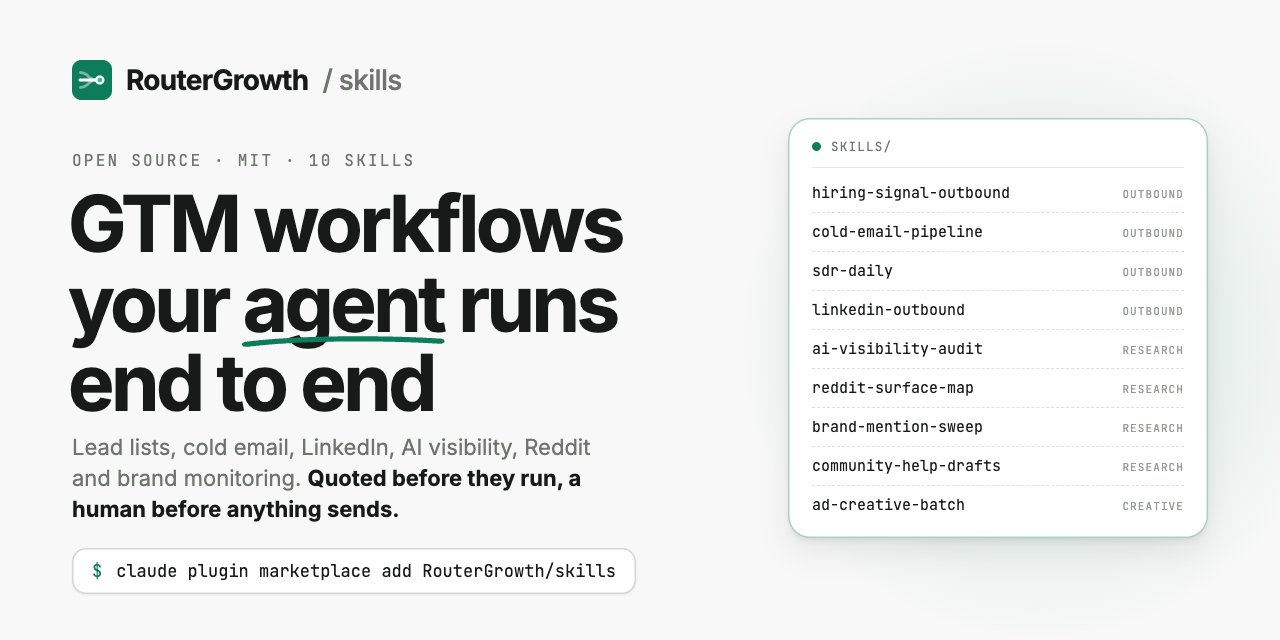
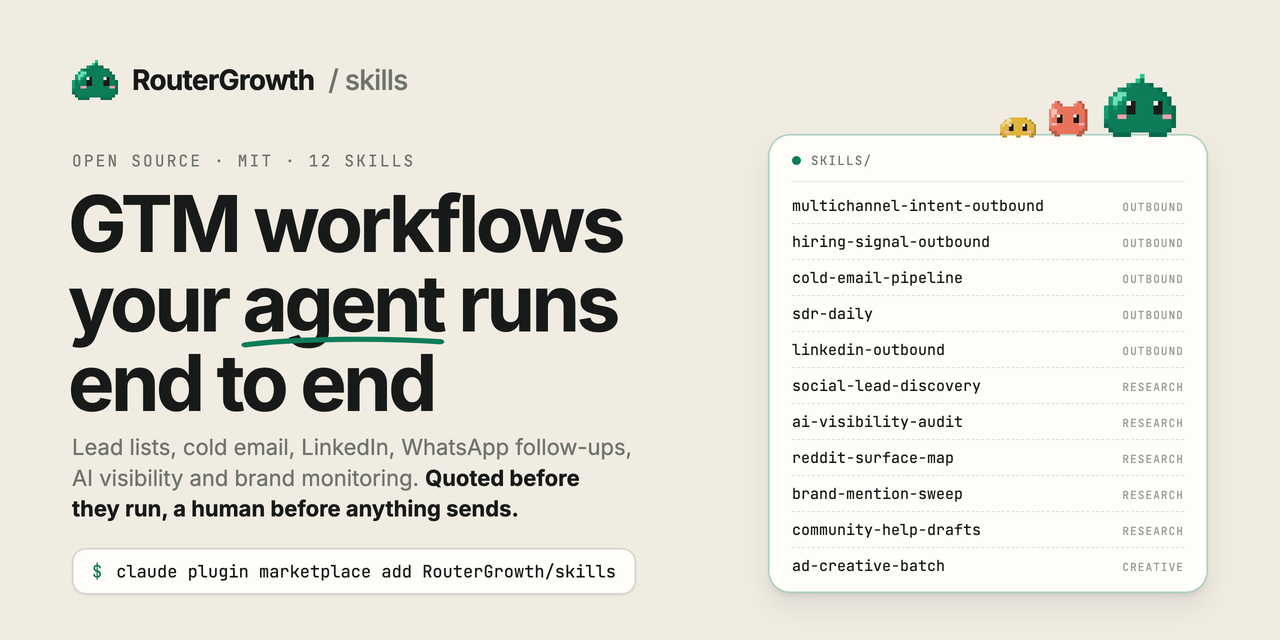
Social preview card: Jell, twelve skills
Redo the card with Jell as the RouterGrowth mark and standing on the
skills list, the storybook paper background, and the current catalog:
twelve skills, now listing multichannel-intent-outbound and
social-lead-discovery.

diff --git a/.github/social-preview.html b/.github/social-preview.html
@@ -2,9 +2,9 @@
 <link rel="stylesheet" href="https://fonts.googleapis.com/css2?family=Inter:wght@400;500;700&family=JetBrains+Mono:wght@400;500&display=swap">
 <style>
 *{box-sizing:border-box}html,body{margin:0;width:1280px;height:640px;overflow:hidden}
-body{background:#f7f8f7;font-family:Inter,system-ui,sans-serif;color:#171a18;position:relative}
+body{background:#f1ece2;font-family:Inter,system-ui,sans-serif;color:#171a18;position:relative}
 .brand{position:absolute;left:72px;top:60px;display:flex;align-items:center;gap:14px;font-weight:700;font-size:28px;letter-spacing:-.025em}
-.brand .m{width:40px;height:40px}.brand span.r{color:#6f746f;font-weight:500}
+.brand .m{width:46px;height:40px;line-height:0}.brand span.r{color:#6f746f;font-weight:500}
 .eye{position:absolute;left:72px;top:150px;font-family:"JetBrains Mono",monospace;font-size:16px;letter-spacing:.14em;text-transform:uppercase;color:#6f746f}
 h1{position:absolute;left:68px;top:184px;margin:0;font-size:78px;font-weight:700;letter-spacing:-.045em;line-height:1.02;width:640px}
 h1 .u{position:relative;display:inline-block}
@@ -12,33 +12,35 @@ h1 .u svg{position:absolute;left:-1%;bottom:-.06em;width:102%;height:.16em;overf
 h1 .u path{fill:none;stroke:#0c7c59;stroke-width:5px;stroke-linecap:round}
 .lead{position:absolute;left:72px;top:432px;width:560px;font-size:22px;line-height:1.4;color:#6f746f}
 .lead b{color:#171a18;font-weight:600}
-.cmd{position:absolute;left:72px;top:548px;display:flex;align-items:center;gap:14px;background:#fff;border-radius:14px;padding:12px 20px;font-family:"JetBrains Mono",monospace;font-size:17px;box-shadow:inset 0 0 0 1.5px rgba(23,26,24,.18),0 1px 2px rgba(15,17,15,.08)}
+.cmd{position:absolute;left:72px;top:548px;display:flex;align-items:center;gap:14px;background:#fffdf8;border-radius:14px;padding:12px 20px;font-family:"JetBrains Mono",monospace;font-size:17px;box-shadow:inset 0 0 0 1.5px rgba(23,26,24,.18),0 1px 2px rgba(15,17,15,.08)}
 .cmd .d{color:#0c7c59}
 .glow{position:absolute;right:-60px;top:40px;width:600px;height:600px;border-radius:50%;background:radial-gradient(closest-side,rgba(12,124,89,.16),rgba(12,124,89,0))}
-.list{position:absolute;right:72px;top:118px;width:420px;background:#fff;border-radius:22px;padding:20px 24px 14px;box-shadow:0 1px 2px -1px rgba(15,17,15,.05),0 4px 6px -1px rgba(15,17,15,.07),0 14px 30px rgba(15,17,15,.08),inset 0 0 0 1.5px rgba(12,124,89,.35)}
+.list{position:absolute;right:72px;top:134px;width:440px;background:#fffdf8;border-radius:22px;padding:18px 24px 10px;box-shadow:0 1px 2px -1px rgba(15,17,15,.05),0 4px 6px -1px rgba(15,17,15,.07),0 14px 30px rgba(15,17,15,.08),inset 0 0 0 1.5px rgba(12,124,89,.35)}
 .lh{display:flex;align-items:center;gap:10px;font-family:"JetBrains Mono",monospace;font-size:12.5px;letter-spacing:.1em;text-transform:uppercase;color:#6f746f;padding-bottom:12px;border-bottom:1px solid rgba(23,26,24,.1);margin-bottom:6px}
 .lh i{width:9px;height:9px;border-radius:99px;background:#0c7c59}
-.it{display:grid;grid-template-columns:1fr auto;gap:12px;padding:9px 0;border-bottom:1px dashed rgba(23,26,24,.14);align-items:baseline}
+.it{display:grid;grid-template-columns:1fr auto;gap:12px;padding:7.5px 0;border-bottom:1px dashed rgba(23,26,24,.14);align-items:baseline}
 .it:last-child{border-bottom:0}
 .it .n{font-family:"JetBrains Mono",monospace;font-size:15px;color:#171a18}
 .it .k{font-family:"JetBrains Mono",monospace;font-size:11px;letter-spacing:.1em;text-transform:uppercase;color:#959a95}
 </style></head><body>
-<div class="glow"></div>
-<div class="brand"><span class="m"><svg viewBox="0 0 64 64" style="width:100%;height:100%"><rect width="64" height="64" rx="15" fill="#0c7c59"/><path d="M13 20c13 0 13 12 26 12" fill="none" stroke="#ffffff" stroke-opacity=".45" stroke-width="4.6" stroke-linecap="round"/><path d="M13 44c13 0 13-12 26-12" fill="none" stroke="#ffffff" stroke-opacity=".45" stroke-width="4.6" stroke-linecap="round"/><path d="M13 32h28" fill="none" stroke="#ffffff" stroke-width="5" stroke-linecap="round"/><circle cx="44.5" cy="32" r="7.4" fill="#ffffff"/><circle cx="44.5" cy="32" r="3.7" fill="#27c38b"/></svg></span>RouterGrowth <span class="r">/ skills</span></div>
-<div class="eye">open source · MIT · 10 skills</div>
+<div class="brand"><span class="m"><svg class="" viewBox="0 0 16 14" shape-rendering="crispEdges" aria-hidden="true" width="46" height="40.2"><rect x="8" y="0" width="1" height="1" fill="#27c38b"/><rect x="7" y="1" width="1" height="1" fill="#27c38b"/><rect x="8" y="1" width="1" height="1" fill="#0c7c59"/><rect x="5" y="2" width="1" height="1" fill="#149a6f"/><rect x="6" y="2" width="4" height="1" fill="#0c7c59"/><rect x="10" y="2" width="1" height="1" fill="#0a6a4c"/><rect x="3" y="3" width="1" height="1" fill="#149a6f"/><rect x="4" y="3" width="8" height="1" fill="#0c7c59"/><rect x="12" y="3" width="1" height="1" fill="#0a6a4c"/><rect x="2" y="4" width="1" height="1" fill="#149a6f"/><rect x="3" y="4" width="2" height="1" fill="#6fe0b3"/><rect x="5" y="4" width="8" height="1" fill="#0c7c59"/><rect x="13" y="4" width="1" height="1" fill="#0a6a4c"/><rect x="1" y="5" width="1" height="1" fill="#149a6f"/><rect x="2" y="5" width="2" height="1" fill="#6fe0b3"/><rect x="4" y="5" width="1" height="1" fill="#149a6f"/><rect x="5" y="5" width="9" height="1" fill="#0c7c59"/><rect x="14" y="5" width="1" height="1" fill="#0a6a4c"/><rect x="1" y="6" width="1" height="1" fill="#149a6f"/><rect x="2" y="6" width="1" height="1" fill="#6fe0b3"/><rect x="3" y="6" width="1" height="1" fill="#149a6f"/><rect x="4" y="6" width="10" height="1" fill="#0c7c59"/><rect x="14" y="6" width="1" height="1" fill="#0a6a4c"/><rect x="0" y="7" width="1" height="1" fill="#149a6f"/><rect x="1" y="7" width="1" height="1" fill="#0c7c59"/><rect x="2" y="7" width="1" height="1" fill="#149a6f"/><rect x="3" y="7" width="12" height="1" fill="#0c7c59"/><rect x="15" y="7" width="1" height="1" fill="#0a6a4c"/><rect x="0" y="8" width="1" height="1" fill="#149a6f"/><rect x="1" y="8" width="14" height="1" fill="#0c7c59"/><rect x="15" y="8" width="1" height="1" fill="#0a6a4c"/><rect x="0" y="9" width="1" height="1" fill="#149a6f"/><rect x="1" y="9" width="2" height="1" fill="#0c7c59"/><rect x="3" y="9" width="2" height="1" fill="#f2a0ad"/><rect x="5" y="9" width="8" height="1" fill="#0c7c59"/><rect x="13" y="9" width="2" height="1" fill="#f2a0ad"/><rect x="15" y="9" width="1" height="1" fill="#0a6a4c"/><rect x="0" y="10" width="15" height="1" fill="#0c7c59"/><rect x="15" y="10" width="1" height="1" fill="#0a6a4c"/><rect x="0" y="11" width="1" height="1" fill="#0a6a4c"/><rect x="1" y="11" width="14" height="1" fill="#0c7c59"/><rect x="15" y="11" width="1" height="1" fill="#0a6a4c"/><rect x="1" y="12" width="1" height="1" fill="#0a6a4c"/><rect x="2" y="12" width="12" height="1" fill="#0c7c59"/><rect x="14" y="12" width="1" height="1" fill="#0a6a4c"/><g class="eyes"><rect x="5" y="6" width="1" height="1" fill="#fff8e8"/><rect x="6" y="6" width="1" height="1" fill="#1b1b18"/><rect x="11" y="6" width="1" height="1" fill="#fff8e8"/><rect x="12" y="6" width="1" height="1" fill="#1b1b18"/><rect x="5" y="7" width="2" height="1" fill="#1b1b18"/><rect x="11" y="7" width="2" height="1" fill="#1b1b18"/><rect x="5" y="8" width="2" height="1" fill="#1b1b18"/><rect x="11" y="8" width="2" height="1" fill="#1b1b18"/></g><rect x="2" y="13" width="4" height="1" fill="#0a6a4c"/><rect x="10" y="13" width="4" height="1" fill="#0a6a4c"/></svg></span>RouterGrowth <span class="r">/ skills</span></div>
+<div class="eye">open source · MIT · 12 skills</div>
 <h1>GTM workflows your <span class="u">agent<svg viewBox="0 0 120 12" preserveAspectRatio="none"><path d="M3 9c30-6.5 82-6.5 114-3"/></svg></span> runs end to end</h1>
-<div class="lead">Lead lists, cold email, LinkedIn, AI visibility, Reddit and brand monitoring. <b>Quoted before they run, a human before anything sends.</b></div>
+<div class="lead">Lead lists, cold email, LinkedIn, WhatsApp follow-ups, AI visibility and brand monitoring. <b>Quoted before they run, a human before anything sends.</b></div>
 <div class="cmd"><span class="d">$</span><span>claude plugin marketplace add RouterGrowth/skills</span></div>
 <div class="list">
   <div class="lh"><i></i>skills/</div>
+  <div class="it"><span class="n">multichannel-intent-outbound</span><span class="k">outbound</span></div>
   <div class="it"><span class="n">hiring-signal-outbound</span><span class="k">outbound</span></div>
   <div class="it"><span class="n">cold-email-pipeline</span><span class="k">outbound</span></div>
   <div class="it"><span class="n">sdr-daily</span><span class="k">outbound</span></div>
   <div class="it"><span class="n">linkedin-outbound</span><span class="k">outbound</span></div>
+  <div class="it"><span class="n">social-lead-discovery</span><span class="k">research</span></div>
   <div class="it"><span class="n">ai-visibility-audit</span><span class="k">research</span></div>
   <div class="it"><span class="n">reddit-surface-map</span><span class="k">research</span></div>
   <div class="it"><span class="n">brand-mention-sweep</span><span class="k">research</span></div>
   <div class="it"><span class="n">community-help-drafts</span><span class="k">research</span></div>
   <div class="it"><span class="n">ad-creative-batch</span><span class="k">creative</span></div>
 </div>
+<div style="position:absolute;right:104px;top:74px;line-height:0"><svg class="" viewBox="0 0 16 14" shape-rendering="crispEdges" aria-hidden="true" width="72" height="63.0"><rect x="8" y="0" width="1" height="1" fill="#27c38b"/><rect x="7" y="1" width="1" height="1" fill="#27c38b"/><rect x="8" y="1" width="1" height="1" fill="#0c7c59"/><rect x="5" y="2" width="1" height="1" fill="#149a6f"/><rect x="6" y="2" width="4" height="1" fill="#0c7c59"/><rect x="10" y="2" width="1" height="1" fill="#0a6a4c"/><rect x="3" y="3" width="1" height="1" fill="#149a6f"/><rect x="4" y="3" width="8" height="1" fill="#0c7c59"/><rect x="12" y="3" width="1" height="1" fill="#0a6a4c"/><rect x="2" y="4" width="1" height="1" fill="#149a6f"/><rect x="3" y="4" width="2" height="1" fill="#6fe0b3"/><rect x="5" y="4" width="8" height="1" fill="#0c7c59"/><rect x="13" y="4" width="1" height="1" fill="#0a6a4c"/><rect x="1" y="5" width="1" height="1" fill="#149a6f"/><rect x="2" y="5" width="2" height="1" fill="#6fe0b3"/><rect x="4" y="5" width="1" height="1" fill="#149a6f"/><rect x="5" y="5" width="9" height="1" fill="#0c7c59"/><rect x="14" y="5" width="1" height="1" fill="#0a6a4c"/><rect x="1" y="6" width="1" height="1" fill="#149a6f"/><rect x="2" y="6" width="1" height="1" fill="#6fe0b3"/><rect x="3" y="6" width="1" height="1" fill="#149a6f"/><rect x="4" y="6" width="10" height="1" fill="#0c7c59"/><rect x="14" y="6" width="1" height="1" fill="#0a6a4c"/><rect x="0" y="7" width="1" height="1" fill="#149a6f"/><rect x="1" y="7" width="1" height="1" fill="#0c7c59"/><rect x="2" y="7" width="1" height="1" fill="#149a6f"/><rect x="3" y="7" width="12" height="1" fill="#0c7c59"/><rect x="15" y="7" width="1" height="1" fill="#0a6a4c"/><rect x="0" y="8" width="1" height="1" fill="#149a6f"/><rect x="1" y="8" width="14" height="1" fill="#0c7c59"/><rect x="15" y="8" width="1" height="1" fill="#0a6a4c"/><rect x="0" y="9" width="1" height="1" fill="#149a6f"/><rect x="1" y="9" width="2" height="1" fill="#0c7c59"/><rect x="3" y="9" width="2" height="1" fill="#f2a0ad"/><rect x="5" y="9" width="8" height="1" fill="#0c7c59"/><rect x="13" y="9" width="2" height="1" fill="#f2a0ad"/><rect x="15" y="9" width="1" height="1" fill="#0a6a4c"/><rect x="0" y="10" width="15" height="1" fill="#0c7c59"/><rect x="15" y="10" width="1" height="1" fill="#0a6a4c"/><rect x="0" y="11" width="1" height="1" fill="#0a6a4c"/><rect x="1" y="11" width="14" height="1" fill="#0c7c59"/><rect x="15" y="11" width="1" height="1" fill="#0a6a4c"/><rect x="1" y="12" width="1" height="1" fill="#0a6a4c"/><rect x="2" y="12" width="12" height="1" fill="#0c7c59"/><rect x="14" y="12" width="1" height="1" fill="#0a6a4c"/><g class="eyes"><rect x="5" y="6" width="1" height="1" fill="#fff8e8"/><rect x="6" y="6" width="1" height="1" fill="#1b1b18"/><rect x="11" y="6" width="1" height="1" fill="#fff8e8"/><rect x="12" y="6" width="1" height="1" fill="#1b1b18"/><rect x="5" y="7" width="2" height="1" fill="#1b1b18"/><rect x="11" y="7" width="2" height="1" fill="#1b1b18"/><rect x="5" y="8" width="2" height="1" fill="#1b1b18"/><rect x="11" y="8" width="2" height="1" fill="#1b1b18"/></g><rect x="2" y="13" width="4" height="1" fill="#0a6a4c"/><rect x="10" y="13" width="4" height="1" fill="#0a6a4c"/></svg></div><div style="position:absolute;right:190px;top:98px;line-height:0"><svg viewBox="0 0 16 14" width="44" height="38.5" shape-rendering="crispEdges"><rect x="3" y="1" width="1" height="1" fill="#ec8974"/><rect x="4" y="1" width="1" height="1" fill="#ba5c48"/><rect x="11" y="1" width="1" height="1" fill="#ec8974"/><rect x="12" y="1" width="1" height="1" fill="#ba5c48"/><rect x="2" y="2" width="1" height="1" fill="#ec8974"/><rect x="3" y="2" width="2" height="1" fill="#e8735a"/><rect x="5" y="2" width="1" height="1" fill="#ba5c48"/><rect x="10" y="2" width="1" height="1" fill="#ec8974"/><rect x="11" y="2" width="2" height="1" fill="#e8735a"/><rect x="13" y="2" width="1" height="1" fill="#ba5c48"/><rect x="2" y="3" width="1" height="1" fill="#ec8974"/><rect x="3" y="3" width="10" height="1" fill="#e8735a"/><rect x="13" y="3" width="1" height="1" fill="#ba5c48"/><rect x="1" y="4" width="1" height="1" fill="#ec8974"/><rect x="2" y="4" width="2" height="1" fill="#f5c0b5"/><rect x="4" y="4" width="10" height="1" fill="#e8735a"/><rect x="14" y="4" width="1" height="1" fill="#ba5c48"/><rect x="1" y="5" width="1" height="1" fill="#ec8974"/><rect x="2" y="5" width="2" height="1" fill="#f5c0b5"/><rect x="4" y="5" width="10" height="1" fill="#e8735a"/><rect x="14" y="5" width="1" height="1" fill="#ba5c48"/><rect x="1" y="6" width="1" height="1" fill="#ec8974"/><rect x="2" y="6" width="1" height="1" fill="#f5c0b5"/><rect x="3" y="6" width="11" height="1" fill="#e8735a"/><rect x="14" y="6" width="1" height="1" fill="#ba5c48"/><rect x="1" y="7" width="1" height="1" fill="#ec8974"/><rect x="2" y="7" width="12" height="1" fill="#e8735a"/><rect x="14" y="7" width="1" height="1" fill="#ba5c48"/><rect x="1" y="8" width="1" height="1" fill="#ec8974"/><rect x="2" y="8" width="12" height="1" fill="#e8735a"/><rect x="14" y="8" width="1" height="1" fill="#ba5c48"/><rect x="1" y="9" width="1" height="1" fill="#ec8974"/><rect x="2" y="9" width="2" height="1" fill="#f7b3be"/><rect x="4" y="9" width="8" height="1" fill="#e8735a"/><rect x="12" y="9" width="2" height="1" fill="#f7b3be"/><rect x="14" y="9" width="1" height="1" fill="#ba5c48"/><rect x="1" y="10" width="13" height="1" fill="#e8735a"/><rect x="14" y="10" width="1" height="1" fill="#ba5c48"/><rect x="1" y="11" width="1" height="1" fill="#ba5c48"/><rect x="2" y="11" width="11" height="1" fill="#e8735a"/><rect x="13" y="11" width="2" height="1" fill="#ba5c48"/><rect x="2" y="12" width="2" height="1" fill="#ba5c48"/><rect x="4" y="12" width="8" height="1" fill="#e8735a"/><rect x="12" y="12" width="2" height="1" fill="#ba5c48"/><rect x="4" y="6" width="1" height="1" fill="#fff8e8"/><rect x="5" y="6" width="1" height="1" fill="#1b1b18"/><rect x="10" y="6" width="1" height="1" fill="#fff8e8"/><rect x="11" y="6" width="1" height="1" fill="#1b1b18"/><rect x="4" y="7" width="2" height="1" fill="#1b1b18"/><rect x="10" y="7" width="2" height="1" fill="#1b1b18"/><rect x="4" y="8" width="2" height="1" fill="#1b1b18"/><rect x="10" y="8" width="2" height="1" fill="#1b1b18"/><rect x="3" y="13" width="2" height="1" fill="#ba5c48"/><rect x="11" y="13" width="2" height="1" fill="#ba5c48"/></svg></div><div style="position:absolute;right:244px;top:106px;line-height:0"><svg viewBox="0 0 16 14" width="36" height="31.5" shape-rendering="crispEdges"><rect x="4" y="5" width="1" height="1" fill="#e5c05b"/><rect x="5" y="5" width="6" height="1" fill="#e0b43c"/><rect x="11" y="5" width="1" height="1" fill="#b39030"/><rect x="2" y="6" width="1" height="1" fill="#e5c05b"/><rect x="3" y="6" width="2" height="1" fill="#f1dda7"/><rect x="5" y="6" width="8" height="1" fill="#e0b43c"/><rect x="13" y="6" width="1" height="1" fill="#b39030"/><rect x="1" y="7" width="1" height="1" fill="#e5c05b"/><rect x="2" y="7" width="2" height="1" fill="#f1dda7"/><rect x="4" y="7" width="10" height="1" fill="#e0b43c"/><rect x="14" y="7" width="1" height="1" fill="#b39030"/><rect x="0" y="8" width="1" height="1" fill="#e5c05b"/><rect x="1" y="8" width="1" height="1" fill="#f1dda7"/><rect x="2" y="8" width="13" height="1" fill="#e0b43c"/><rect x="15" y="8" width="1" height="1" fill="#b39030"/><rect x="0" y="9" width="1" height="1" fill="#e5c05b"/><rect x="1" y="9" width="14" height="1" fill="#e0b43c"/><rect x="15" y="9" width="1" height="1" fill="#b39030"/><rect x="0" y="10" width="1" height="1" fill="#e5c05b"/><rect x="1" y="10" width="14" height="1" fill="#e0b43c"/><rect x="15" y="10" width="1" height="1" fill="#b39030"/><rect x="0" y="11" width="2" height="1" fill="#e0b43c"/><rect x="2" y="11" width="2" height="1" fill="#f7b3be"/><rect x="4" y="11" width="8" height="1" fill="#e0b43c"/><rect x="12" y="11" width="2" height="1" fill="#f7b3be"/><rect x="14" y="11" width="1" height="1" fill="#e0b43c"/><rect x="15" y="11" width="1" height="1" fill="#b39030"/><rect x="0" y="12" width="1" height="1" fill="#b39030"/><rect x="1" y="12" width="13" height="1" fill="#e0b43c"/><rect x="14" y="12" width="2" height="1" fill="#b39030"/><rect x="4" y="8" width="1" height="1" fill="#fff8e8"/><rect x="5" y="8" width="1" height="1" fill="#1b1b18"/><rect x="10" y="8" width="1" height="1" fill="#fff8e8"/><rect x="11" y="8" width="1" height="1" fill="#1b1b18"/><rect x="4" y="9" width="2" height="1" fill="#1b1b18"/><rect x="10" y="9" width="2" height="1" fill="#1b1b18"/><rect x="4" y="10" width="2" height="1" fill="#1b1b18"/><rect x="10" y="10" width="2" height="1" fill="#1b1b18"/><rect x="1" y="13" width="2" height="1" fill="#b39030"/><rect x="7" y="13" width="2" height="1" fill="#b39030"/><rect x="13" y="13" width="2" height="1" fill="#b39030"/></svg></div>
 </body></html>
